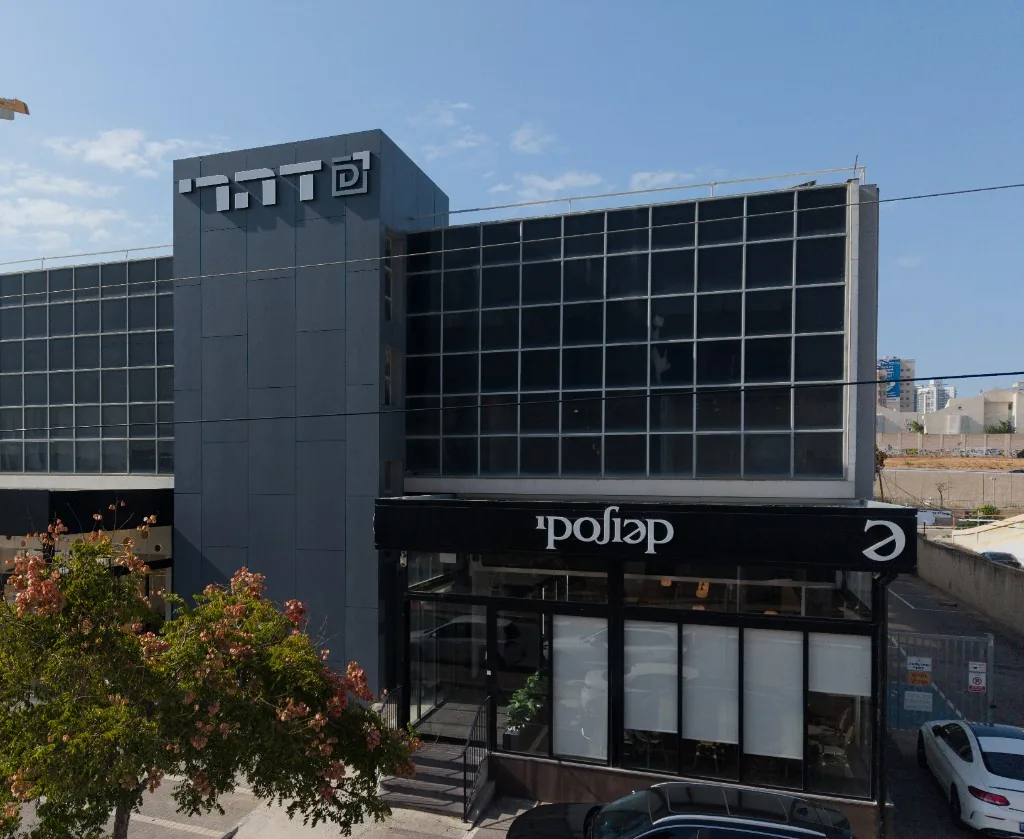
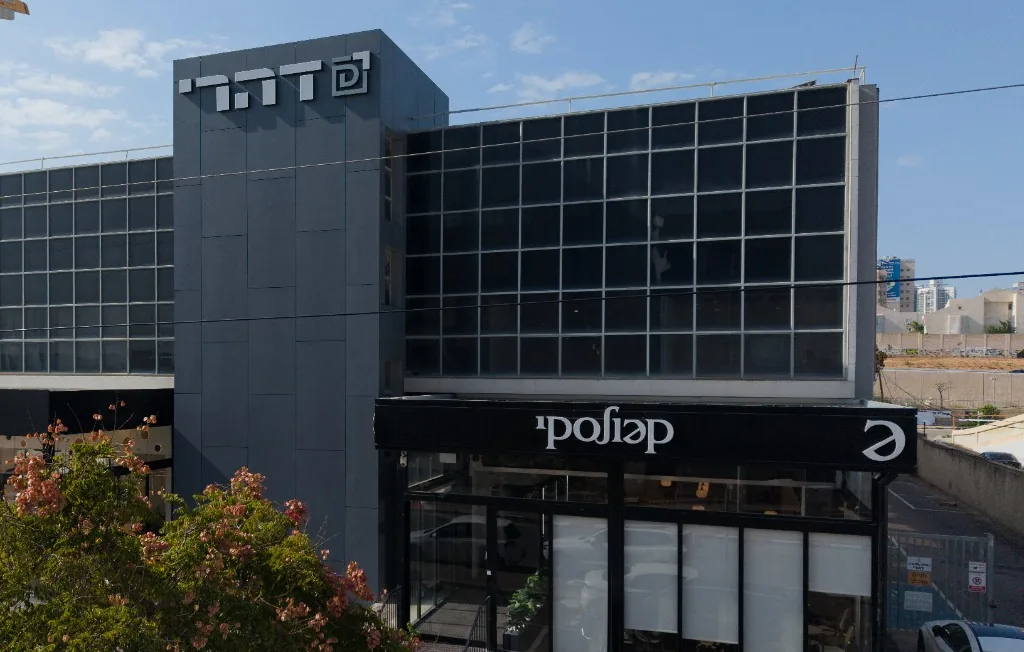
Fit the Kapulski photo to the commerce card frame.

diff --git a/commerce.html b/commerce.html
@@ -84,7 +84,7 @@
 <div class="swiper-slide wqf-slide">
 <div class="wqf-slide-card" style="--hover-logo-color: #dadada;">
 <div class="wqf-logo">
-<img alt="קפולסקי — נכס דהרי" class="wqf-logo-img" decoding="async" height="540" loading="lazy" referrerpolicy="no-referrer" src="assets/RealEstate/Commerce/%D7%94%D7%9E%D7%9C%D7%90%D7%9B%D7%94%2030/%D7%94%D7%9E%D7%9C%D7%90%D7%9B%D7%94%2030%20%D7%97%D7%A0%D7%95%D7%AA%20%D7%90%D7%97%D7%95%D7%A8%D7%99%D7%AA%20%D7%A6%D7%93%20%D7%99%D7%9E%D7%99%D7%9F/kapulski-facade.webp" width="960"/>
+<img alt="קפולסקי — נכס דהרי" class="wqf-logo-img" decoding="async" height="540" loading="lazy" referrerpolicy="no-referrer" src="assets/RealEstate/Commerce/%D7%94%D7%9E%D7%9C%D7%90%D7%9B%D7%94%2030/%D7%94%D7%9E%D7%9C%D7%90%D7%9B%D7%94%2030%20%D7%97%D7%A0%D7%95%D7%AA%20%D7%90%D7%97%D7%95%D7%A8%D7%99%D7%AA%20%D7%A6%D7%93%20%D7%99%D7%9E%D7%99%D7%9F/kapulski-facade.webp?v=2" width="960"/>
 <a class="wqf-area-tag" href="commerce-item-30.html" rel="noopener"><img alt="" aria-hidden="true" class="wqf-slide-meta-icon" decoding="async" height="20" src="assets/Icons/House.svg" width="20"/><span class="wqf-slide-meta-text">כ־200 מ״ר</span></a></div><div class="wqf-slide-copy"><p class="wqf-slide-location">מסחר | פטיסרי | בית קפה</p><div class="wqf-slide-desc">
 <p class="p2-mono wqf-desc">במתחם המלאכה 30 באזור התעשייה פולג, נתניה, פועל בית הפטיסרי והקפה של קפולסקי, בחלל מסחרי בשטח בנוי של כ־200 מ״ר.</p>
 </div></div>
